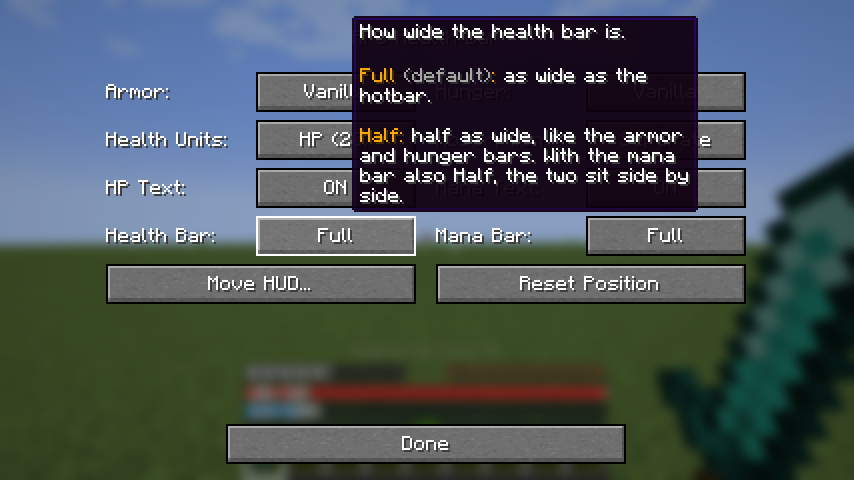
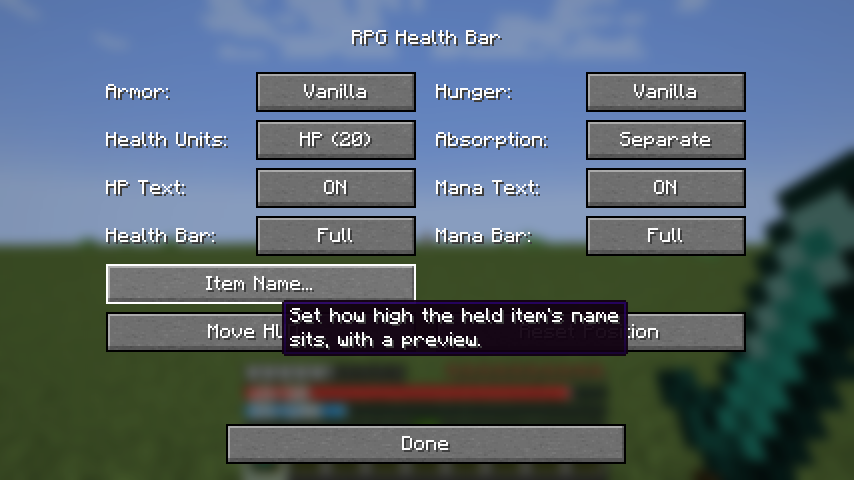
chore: release 1.3.2

diff --git a/PLAN.md b/PLAN.md
@@ -178,7 +178,7 @@ The point of this is to let players move the bars away from **Double Hotbar**, *
 6. **Move HUD editor**: drag the group (including the XP bar, level number and jump meter), Save/Cancel, Reset; position persists.
 7. **Vanilla overlap check**: air bubbles and mount health don't collide with the bars, and get shifted if needed.
 8. **Styling + modpack test**: slim bars with shaded fills, thin armor/hunger lines, level number centered on the XP bar (done); test in the full Antarchy Craft modpack (Double Hotbar, Armor Status HUD, Configured, Jade, Xaero's). Modpack test done: confirmed working in the Antarchy Craft modpack on NeoForge 21.1.235 (2026-10-26).
-9. **Release**: build jar, README. Done: version 1.0.0 with a pixel-art icon (`rpghealthbar.png`), mod description and homepage link, README with screenshots (`docs/images/`), CHANGELOG, tag `v1.0.0`. 1.1.0: status colors, low-health pulse and Regeneration sweep; tag `v1.1.0`. 1.2.0: moving single pieces, hover highlight, item name placement; tag `v1.2.0`. 1.2.1: an anchor per piece group, so spread-out layouts hold on resize; tag `v1.2.1`. 1.3.0: half-size health/mana bars, AppleSkin support, batched Regeneration sweep; tag `v1.3.0`.
+9. **Release**: build jar, README. Done: version 1.0.0 with a pixel-art icon (`rpghealthbar.png`), mod description and homepage link, README with screenshots (`docs/images/`), CHANGELOG, tag `v1.0.0`. 1.1.0: status colors, low-health pulse and Regeneration sweep; tag `v1.1.0`. 1.2.0: moving single pieces, hover highlight, item name placement; tag `v1.2.0`. 1.2.1: an anchor per piece group, so spread-out layouts hold on resize; tag `v1.2.1`. 1.3.0: half-size health/mana bars, AppleSkin support, batched Regeneration sweep; tag `v1.3.0`. 1.3.2: Item Name height page with a live preview, rows reserved by other mods honored, HUD frame worked out once per frame; tag `v1.3.2`.
 
 ## 4. Testing checklist
 - [ ] Max HP 20, 40, and odd values (e.g. 27) display correctly

diff --git a/docs/curseforge-description.md b/docs/curseforge-description.md
@@ -17,6 +17,7 @@ Replaces the vanilla hearts with an RPG-style health bar. With **Iron's Spells '
 - **Highly customizable:**
   - **Half-size bars:** health and mana can each be full or half width. With both set at half, they will sit side by side (But can be moved individually)
   - **Move the HUD** by dragging it: can either move the whole set, including the XP bar and level, or each piece (armor, hunger, health, mana, XP bar) on its own. It stays in place when you change the window size or GUI scale.
+  - **Item name height:** set how high the held item's name sits, with a preview that moves as you change it. It starts at vanilla's height, which leaves room for mods that add hotbars.
   - **Everything in game:** all options apply immediately, no restart.
 
 #### Armor and hunger as bars, with absorption
@@ -84,6 +85,10 @@ Defaults are in bold. **Move HUD...** opens the position editor. With **Moving: 
 #### Moving a single piece
 
 ![Moving one piece: the health bar](https://raw.githubusercontent.com/joshua-fonseca/mc-rpg-health-bar/main/docs/images/move-pieces.png)
+
+#### Setting the item name height
+
+![The Item Name page: a slider sets the height, and the held item's name is shown where it will go, here right above the hotbar](https://raw.githubusercontent.com/joshua-fonseca/mc-rpg-health-bar/main/docs/images/item-name.png)
 
 #### Example layout: health and mana in the top-left
 

diff --git a/README.md b/README.md
@@ -21,6 +21,7 @@ A client-side Minecraft mod that replaces the vanilla hearts with an RPG-style h
 - **Highly customizable:**
   - **Half-size bars:** health and mana can each be full or half width. With both half, they sit side by side above the hotbar.
   - **Move the HUD** by dragging it: the whole set, including the XP bar and level, or each piece (armor, hunger, health, mana, XP bar) on its own. It stays in place when you change the window size or GUI scale.
+  - **Item name height:** set how high the held item's name sits, with a preview that moves as you change it. It starts at vanilla's height, which leaves room for mods that add hotbars.
   - **Everything in game:** all options apply immediately, no restart.
 
 #### Armor and hunger as bars, with absorption
@@ -72,6 +73,10 @@ Defaults are in bold. **Move HUD...** opens the position editor. With **Moving: 
 #### Moving a single piece
 
 ![Moving one piece: the health bar](docs/images/move-pieces.png)
+
+#### Setting the item name height
+
+![The Item Name page: a slider sets the height, and the held item's name is shown where it will go, here right above the hotbar](docs/images/item-name.png)
 
 #### Example layout: health and mana in the top-left
 

diff --git a/CHANGELOG.md b/CHANGELOG.md
@@ -1,5 +1,12 @@
 # Changelog
 
+## 1.3.2 (2026-10-27)
+
+- New **Item Name...** page in the config: sets how high the held item's name sits, from 50 pixels lower to 100 higher than vanilla. A preview shows the name where it will go and moves as you change it. Drag the slider, or use the arrow keys (Shift: 10px). Tips give the values for vanilla's height and for right above the hotbar.
+- The default stays at vanilla's height, which leaves room for mods that add hotbars. The name never goes onto the HUD or the hotbar.
+- The held item's name and the action bar now stay above rows that other mods reserve above the hotbar, like extra hotbars.
+- The HUD's layout is worked out once per frame instead of once per piece, and the item name's position reads the game state once.
+
 ## 1.3.1 (2026-10-27)
 
 - Absorption no longer appears at once: when you gain it, the gold fill grows in from the left over 0.5 seconds. When you lose it, the lost part turns darker and fades away like health does when you take damage, but quicker (it stays 0.5 seconds instead of 0.75).
